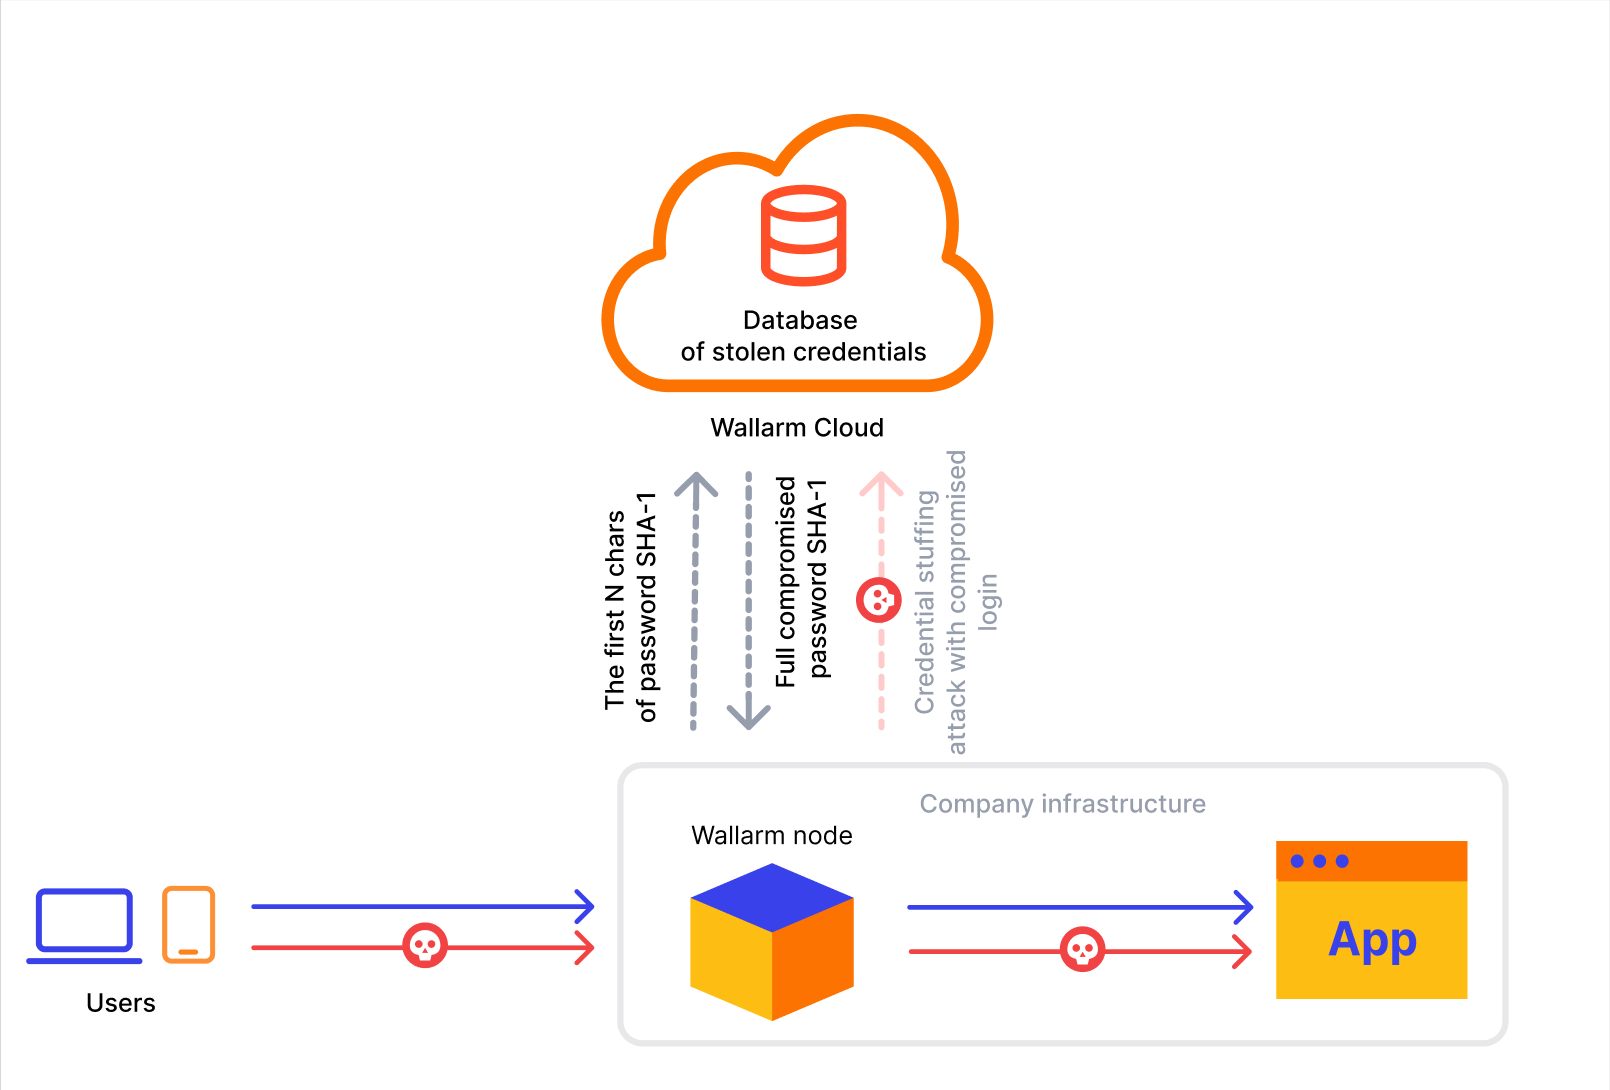
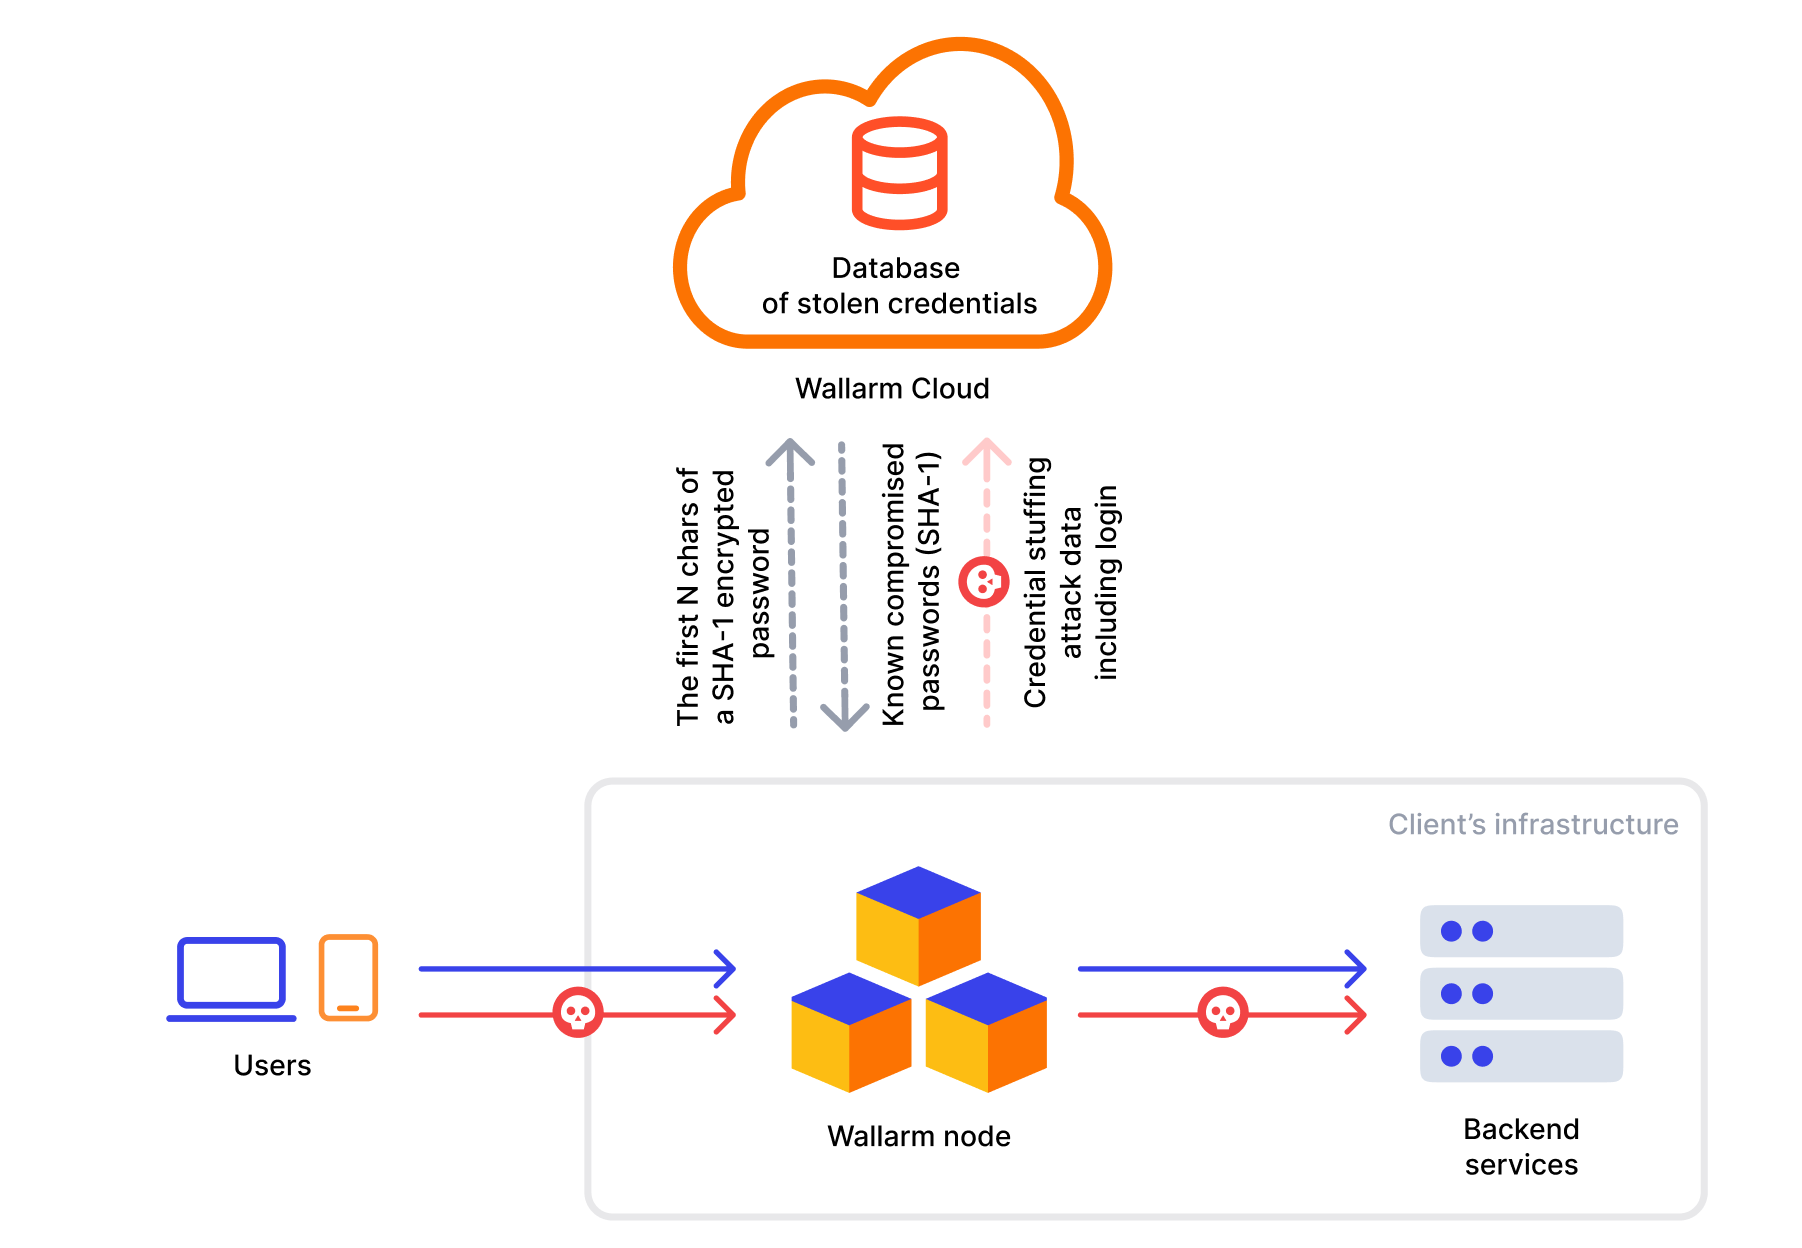
DOCS-2251 Fixes due to comments (6)

Changed region(s): [[0.0, 0.6862, 0.9317, 0.967], [0.3727, 0.0312, 0.6211, 0.6862], [0.7764, 0.655, 0.9317, 0.6862]]

diff --git a/docs/latest/about-wallarm/credential-stuffing.md b/docs/latest/about-wallarm/credential-stuffing.md
@@ -2,8 +2,6 @@
 
 [Credential stuffing](../attacks-vulns-list.md#credential-stuffing) is a cyber attack where hackers use lists of compromised user credentials to gain unauthorized access to user accounts on multiple websites. This article describes how to detect this type of threats using Wallarm's **Credential Stuffing Detection**.
 
-User credentials can become compromised in different ways, including as a result of email fishing, social engineering, disclosure by insiders or technical data breach.
-
 A credential stuffing attack is hazardous because of the common practice of reusing identical usernames and passwords across different services, along with the tendency to choose easily guessable (weak) passwords. A successful credential stuffing attack requires fewer attempts, so attackers can send requests much less frequently, which makes standard measures like brute force protection ineffective.
 
 ## How Wallarm addresses credential stuffing
@@ -17,11 +15,11 @@ To identify compromised and weak passwords, Wallarm uses a comprehensive databas
 Wallarm's Credential Stuffing Detection keeps credentials data safe applying the following sequence of actions:
 
 1. As the request arrives at the node, it generates [SHA-1](https://en.wikipedia.org/wiki/SHA-1) from the password and sends several chars to the Cloud.
-1. Cloud sends full SHA-1 encrypted compromised passwords that begin with the received chars back to the node.
-1. If there is a match, the node reports a credential stuffing attack to the Cloud, including the login taken from the request to this attack information.
+1. Cloud checks its database of known compromised passwords looking for those starting with the received chars and, if finds them, sends these passwords in the SHA-1 encrypted format to the node for it to compare the password from the request with the ones received from the Cloud.
+1. If it is a match, the node reports a credential stuffing attack to the Cloud, including the login taken from the request to this attack information.
 1. The node passes the request to the application.
 
-Thus, credentials are never sent together, passwords are never sent unencrypted, and your clients' authorization data always stays secure.
+Thus, passwords from machines with Wallarm nodes are never sent to the Wallarm Cloud unencrypted. Credentials are not sent simultaneously, ensuring clients' authorization data remains secure within your network.
 
 **Mass and single attempts**
 
